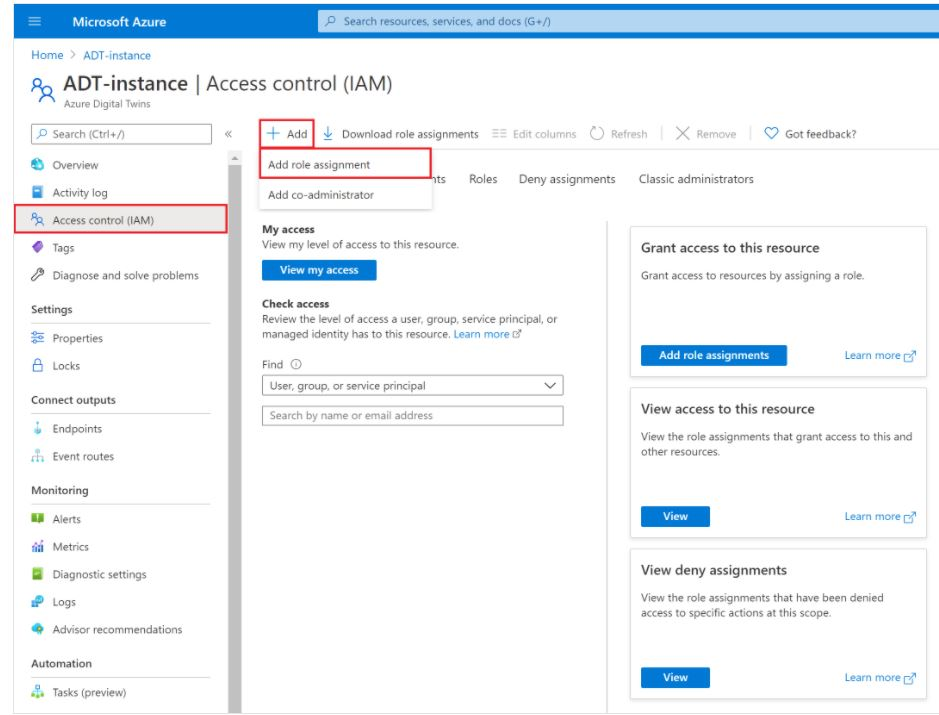
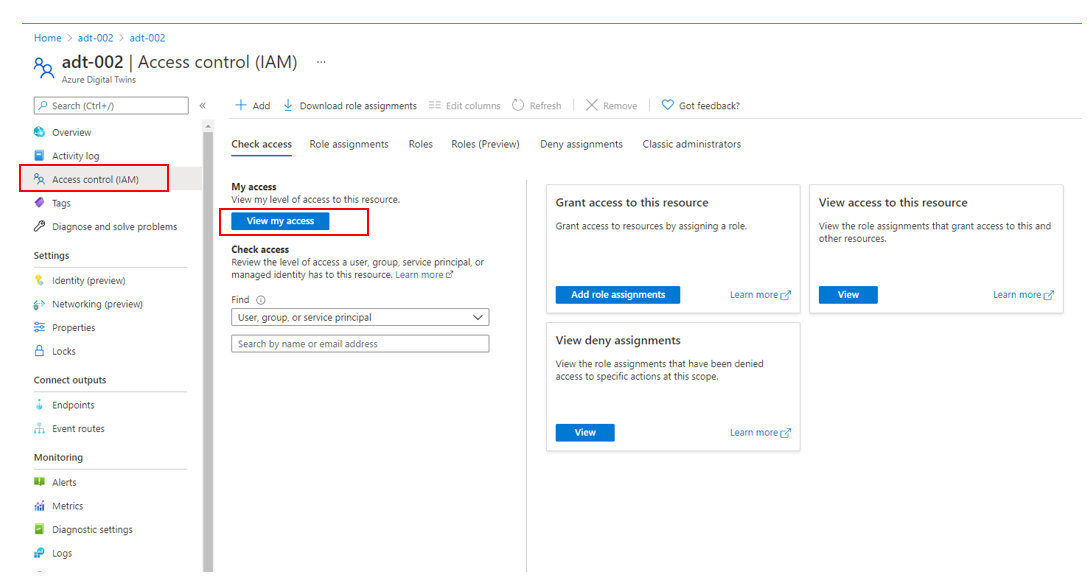
update

diff --git a/Month_3/Day_1/BeforeHOL.md b/Month_3/Day_1/BeforeHOL.md
@@ -138,11 +138,12 @@ Search for Azure Digital Twins in the search box, and choose the Azure Digital T
 - Subscription: The Azure subscription you're using.
 - Resource group: A resource group in which to deploy the instance. If you don't already have an existing resource group in mind, you can create one here by selecting the Create new link and entering a name for a new resource group.
 - Location: An Azure Digital Twins-enabled region for the deployment. For more details on regional support, visit Azure products available by region (Azure Digital Twins).
-- Resource name: A name for your Azure Digital Twins instance. If your subscription has another Azure Digital Twins instance in the region that's already using the specified name, you'll be asked to pick a different name.
+- Resource name: A name for your Azure Digital Twins instance. Select the checkbox for **"Assign Azure Digital Twins Owner role"**
 ![Review+Create](./media/ADT3.png 'Review+Create')
 
 
     When you're finished, you can select Review + create if you don't want to configure any more settings for your instance. This will take you to a summary page, where you can review the instance details you've entered and finish with Create.
+![Create](./media/ADT3.1.png 'Create')
 
     ### Task 4: Verify success and collect important values
 
@@ -154,29 +155,25 @@ Search for Azure Digital Twins in the search box, and choose the Azure Digital T
 ![Azure Digital Twin Host-name](./media/ADT5.png 'AzureDigitalTwinHostname')
 
 
-    You now have an Azure Digital Twins instance ready to go. Next, you'll give the appropriate Azure user permissions to manage it.
+    You now have an Azure Digital Twins instance ready to go. Next, you'll verify if you have the correct user access permissions
 
-    ## Set up User Access Permissions
+    ## Verify User Access Permissions
 
     Assign the role
-    To give a user permissions to manage an Azure Digital Twins instance, you must assign them the Azure Digital Twins Data Owner role within the instance.
+    To give a user permissions to manage an Azure Digital Twins instance, you must assign them the Azure Digital Twins Data Owner role within the instance. Note that we assigned ourselves the owner role during creation of the Azure digital Twin instance
 
-    First, open the page for your Azure Digital Twins instance in the Azure portal. From the instance's menu, select Access control (IAM). Select the + Add button to add a new role assignment.
-![Add-Role-Assignment](./media/ADT6.png 'AddRoleAssignment')
+    First, open the page for your Azure Digital Twins instance in the Azure portal. From the instance's menu, select Access control (IAM). Under Check access, click on **View my access**
+![View-Access](./media/ADT6.png 'ViewAccess')
 
-    On the following Add role assignment page, fill in the values (must be completed by a user with sufficient permissions in the Azure subscription):
-
-    Role: Select Azure Digital Twins Data Owner from the dropdown menu
-    Assign access to: Use User, group or service principal
-    Select: Search for the name or email address of the user to assign. When you select the result, the user will show up in a Selected members section.
+    A panel will open up on the right side showing your access level. You should have **Azure Digital Twin Data Owner** access
 ![Azure Digital Twin](./media/ADT7.png 'AzureDigitalTwin')
 
 
-    When you're finished entering the details, hit the Save button.
+  
 
     ## Verify success
 
-    You can view the role assignment you've set up under Access control (IAM) > Role assignments. The user should show up in the list with a role of Azure Digital Twins Data Owner.
+    You can also view the role assignment you've set up under Access control (IAM) > Role assignments. The user should show up in the list with a role of Azure Digital Twins Data Owner.
 ![Verify-access](./media/ADT8.png 'Verify-access')
 
     You now have an Azure Digital Twins instance ready to go, and have assigned permissions to manage it.
